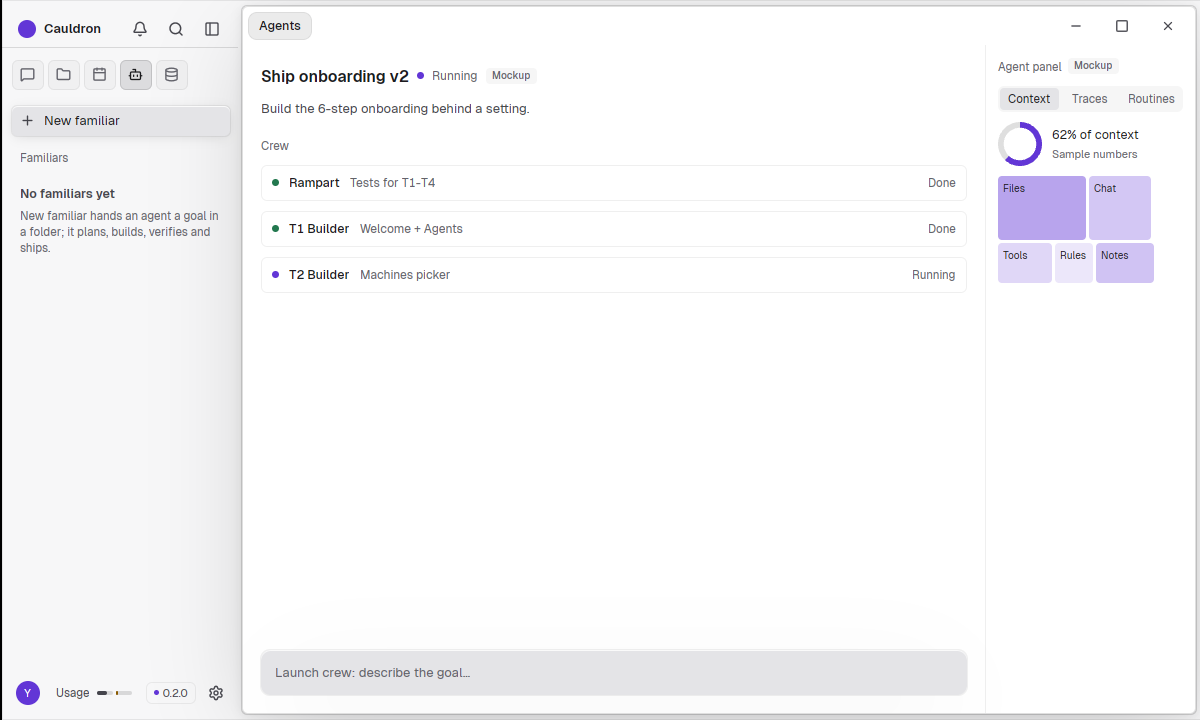
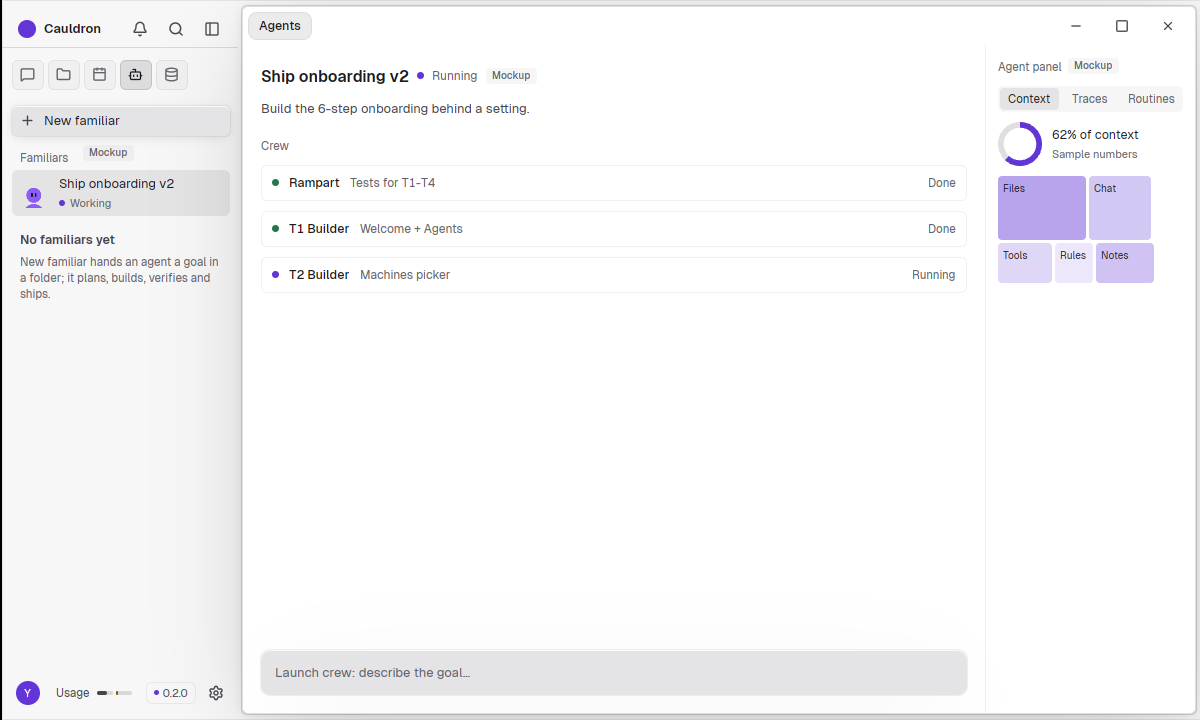
Agents: the roster moves into the shared left sidebar
Claude-Session: https://claude.ai/code/session_01LKPD2JfHPTXwz4cCvT75UT

Changed region(s): [[0.0, 0.2444, 0.185, 0.4278], [0.0617, 0.1833, 0.0925, 0.2139]]

diff --git a/crates/app/src/shell/apps.rs b/crates/app/src/shell/apps.rs
@@ -80,28 +80,42 @@ impl Cauldron {
                 list
             }
             "Agents" => {
-                list = list.child(head("agents-head", "Familiars".into()));
-                if self.fam_views.is_empty() {
-                    return list.child(note("agents-empty", "No familiars yet", "New familiar hands an agent a goal in a folder; it plans, builds, verifies and ships."));
-                }
-                for (i, f) in self.fam_views.iter().enumerate() {
-                    let dot = match f.state {
+                let (real, roster) = self.roster();
+                list = list.child(div().flex().items_center().gap(px(6.)).child(head("agents-head", "Familiars".into())).children((!real).then(|| Self::mock_tag(pal))));
+                for (i, (name, _, state, _)) in roster.into_iter().enumerate() {
+                    let on = self.section_page && self.pages.agent == i;
+                    let dot = match state {
                         familiar::State::NeedsYou => c(pal.warn),
                         familiar::State::Running => c(pal.accent),
                         familiar::State::Failed => c(pal.bad),
                         familiar::State::Done => c(pal.fg4),
                     };
                     list = list.child(
-                        row(("agent-row", i), Some(dot), f.name.clone(), familiar::state_text(f.state).into())
-                            .when_live(self.section_page && self.pages.agent == i, |d| d.bg(c(pal.selected)))
+                        div()
+                            .id(("agent-row", i))
+                            .h(px(46.))
+                            .px(px(8.))
+                            .flex()
+                            .items_center()
+                            .gap(px(9.))
+                            .rounded(px(radius::CONTROL))
+                            .cursor_pointer()
+                            .when_live(on, |d| d.bg(c(pal.selected)))
+                            .hover(|d| d.bg(c(pal.hover)))
+                            .aria_label(format!("{name}, {}", familiar::state_text(state)))
+                            .child(img(Arc::new(Image::from_bytes(ImageFormat::Svg, avatar::svg(i, Mood::Idle, Look { px: 30., outline: false, ms: None, bust: true, ink: None }).into_bytes()))).size(px(30.)))
+                            .child(div().flex_1().min_w_0().flex().flex_col().child(div().truncate().text_color(fg).child(name)).child(div().flex().items_center().gap(px(5.)).text_size(px(11.)).text_color(fg3).child(div().size(px(6.)).rounded_full().bg(dot)).child(familiar::state_text(state))))
                             .on_click(cx.listener(move |this, _, _, cx| {
-                                // The page beside shows it (Charles, 21 Nov 17:25Z: the list lives in the sidebar).
+                                // The page beside shows it (Charles, 21 Nov 17:33Z: the roster lives in the sidebar).
                                 this.pages.agent = i;
                                 this.select_section(3, cx);
                                 cx.notify();
                             }))
                             .test_support(),
                     );
+                }
+                if self.fam_views.is_empty() {
+                    list = list.child(note("agents-empty", "No familiars yet", "New familiar hands an agent a goal in a folder; it plans, builds, verifies and ships."));
                 }
                 list
             }

diff --git a/crates/app/src/shell/pages.rs b/crates/app/src/shell/pages.rs
@@ -107,6 +107,22 @@ impl Cauldron {
         .detach();
     }
 
+    /// The familiars for the sidebar's Agents list and the page: the real ones, else a made-up one
+    /// (the caller tags it Mockup). Name, goal, state, crew as (name, ticket, state).
+    pub(super) fn roster(&self) -> (bool, Vec<(String, String, FamState, Vec<(String, String, FamState)>)>) {
+        if !self.fam_views.is_empty() {
+            let v = self.fam_views.iter().map(|v| (v.name.clone(), v.goal.clone(), v.state, v.crew.iter().map(|s| (s.name.clone(), s.ticket.clone(), s.state)).collect())).collect();
+            return (true, v);
+        }
+        let mock = (
+            "Ship onboarding v2".to_string(),
+            "Build the 6-step onboarding behind a setting.".to_string(),
+            FamState::Running,
+            vec![("Rampart".to_string(), "Tests for T1-T4".to_string(), FamState::Done), ("T1 Builder".to_string(), "Welcome + Agents".to_string(), FamState::Done), ("T2 Builder".to_string(), "Machines picker".to_string(), FamState::Running)],
+        );
+        (false, vec![mock])
+    }
+
     fn page_shell(id: &'static str, title: &'static str, sub: &str, pal: &'static Palette, kids: Vec<AnyElement>) -> AnyElement {
         div().id(id).size_full().overflow_y_scroll().flex().justify_center().child(
             div()
@@ -125,7 +141,7 @@ impl Cauldron {
     }
 
     /// A small "Mockup" tag for parts drawn from made-up data.
-    fn mock_tag(pal: &'static Palette) -> Div {
+    pub(super) fn mock_tag(pal: &'static Palette) -> Div {
         div().flex_none().px(px(6.)).h(px(16.)).flex().items_center().rounded(px(4.)).bg(c(pal.inset)).text_size(px(10.)).font_weight(FontWeight::MEDIUM).text_color(c(pal.fg3)).child("Mockup")
     }
 
@@ -341,18 +357,7 @@ impl Cauldron {
 
     fn agents_page(&self, pal: &'static Palette, cx: &mut Context<Self>) -> AnyElement {
         let (fg, fg2, fg3) = (c(pal.fg), c(pal.fg2), c(pal.fg3));
-        let real = !self.fam_views.is_empty();
-        // Name, goal, state, crew (name, ticket, state).
-        let roster: Vec<(String, String, FamState, Vec<(String, String, FamState)>)> = if real {
-            self.fam_views.iter().map(|v| (v.name.clone(), v.goal.clone(), v.state, v.crew.iter().map(|s| (s.name.clone(), s.ticket.clone(), s.state)).collect())).collect()
-        } else {
-            vec![(
-                "Ship onboarding v2".into(),
-                "Build the 6-step onboarding behind a setting.".into(),
-                FamState::Running,
-                vec![("Rampart".into(), "Tests for T1-T4".into(), FamState::Done), ("T1 Builder".into(), "Welcome + Agents".into(), FamState::Done), ("T2 Builder".into(), "Machines picker".into(), FamState::Running)],
-            )]
-        };
+        let (real, roster) = self.roster();
         let sel = self.pages.agent.min(roster.len() - 1);
         let (name, goal, state, crew) = roster[sel].clone();
         let state_col = |s: FamState| match s {
